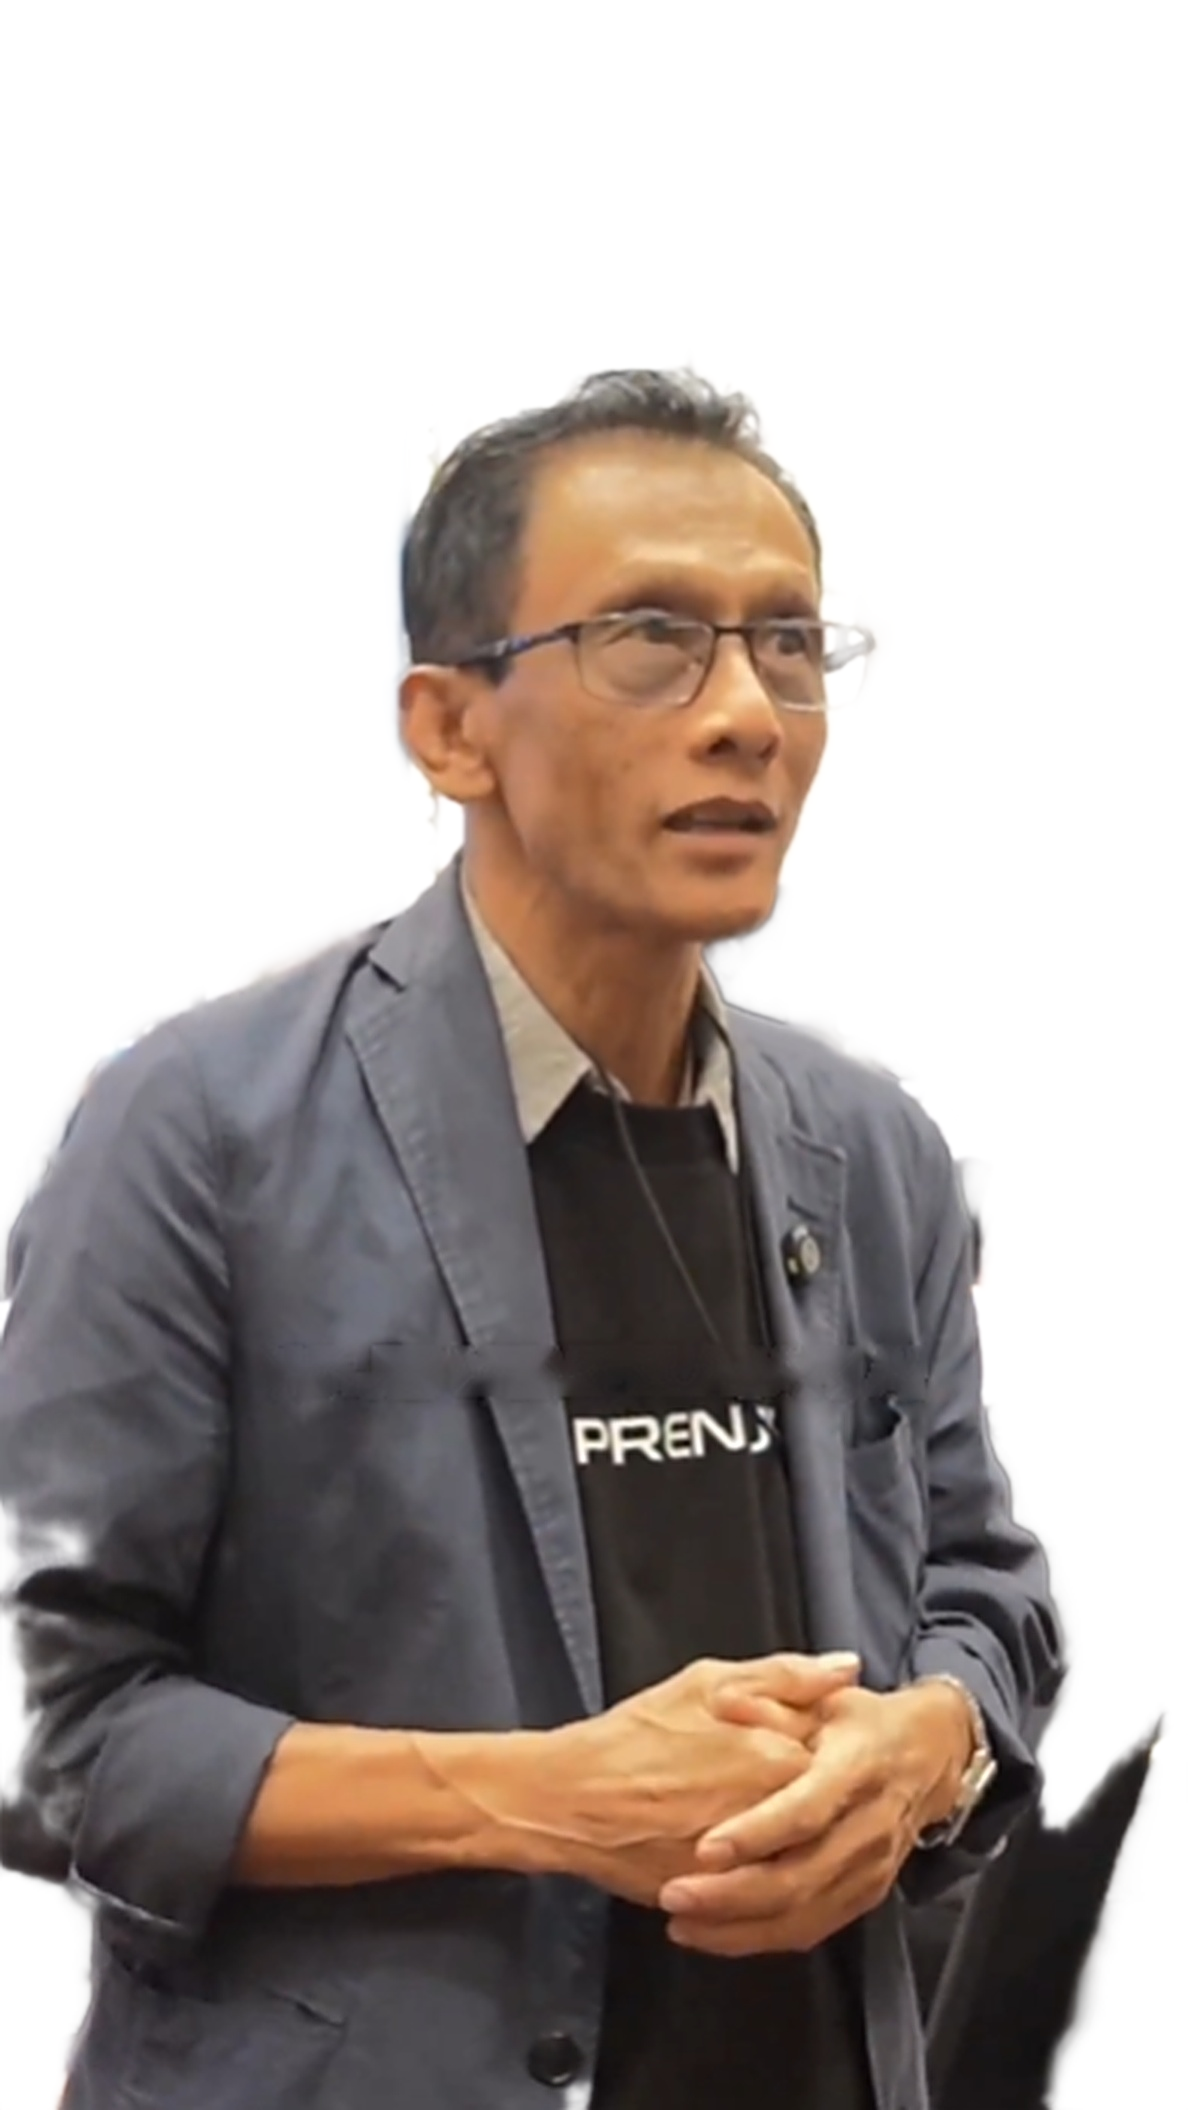
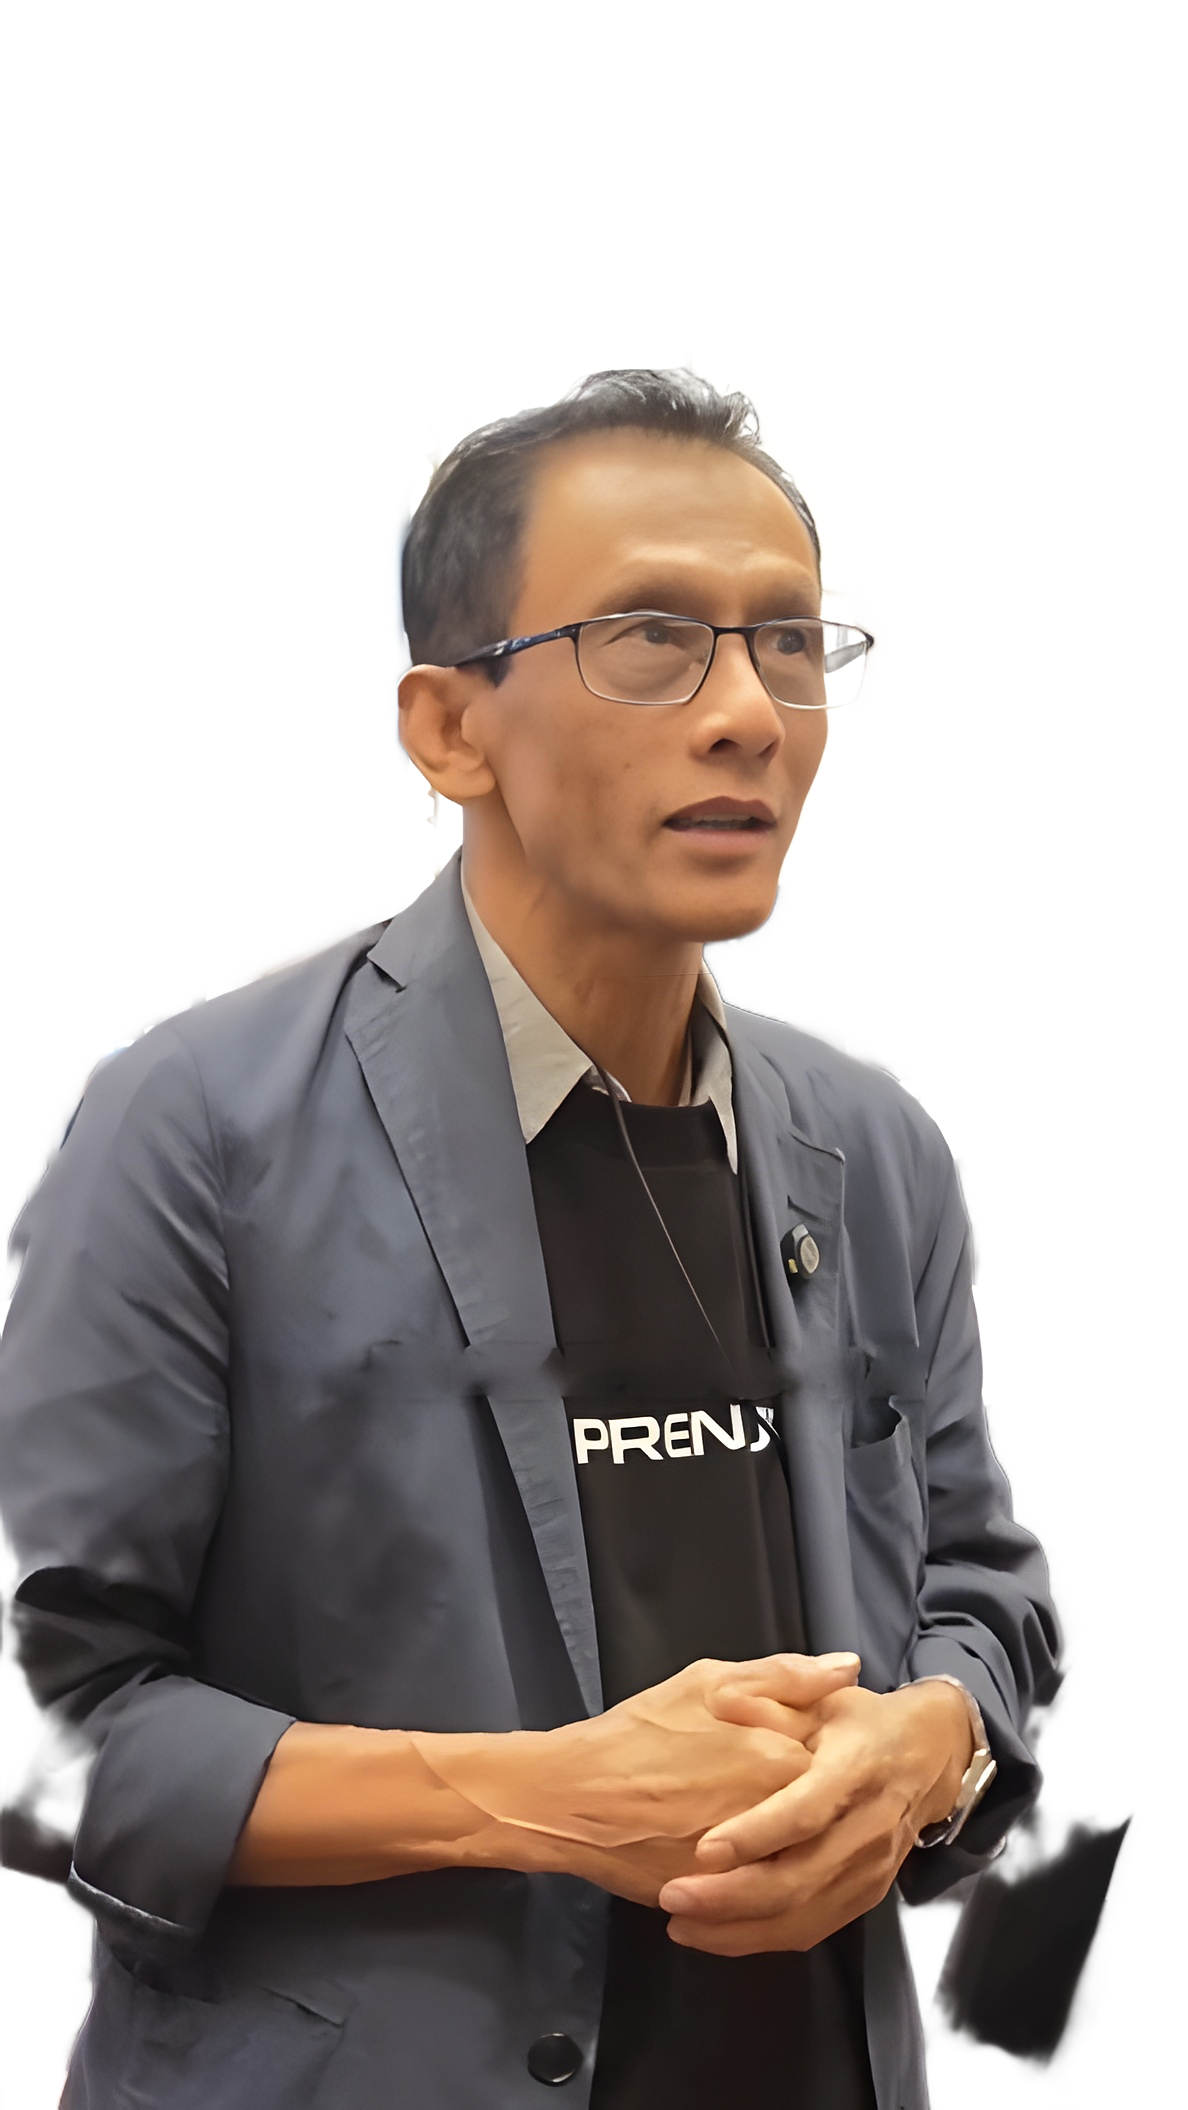
Andreas thumbnail: HD via Real-ESRGAN x4 + GFPGAN face restore (hd.py)
Claude-Session: https://claude.ai/code/session_01FYKeHQysKjzco9uu7WCLcY

diff --git a/thumbnail-name-card/hd.py b/thumbnail-name-card/hd.py
@@ -1,0 +1,47 @@
+# HD pipeline: Real-ESRGAN x4 (tiled) + GFPGAN v1.4 face restore (blended to keep identity).
+# usage: hd.py models_dir in.png out.png [face_weight]
+import onnxruntime as ort, numpy as np, cv2, sys, time
+M, src, out = sys.argv[1:4]; fw = float(sys.argv[4]) if len(sys.argv) > 4 else 0.6
+import os
+cache = out.replace('.png', '_sr.png')
+img = cv2.imread(src)[..., ::-1].astype(np.float32) / 255.0            # RGB 0..1
+H, W, _ = img.shape
+sr = ort.InferenceSession(M + '/realesrgan_x4.onnx', providers=['CPUExecutionProvider'])
+T, O = 64, 12; S = T - 2 * O
+pad = np.pad(img, ((O, O + T), (O, O + T), (0, 0)), mode='reflect')
+up = np.zeros((H * 4, W * 4, 3), np.float32); t0 = time.time()
+for y in (range(0, H, S) if not os.path.exists(cache) else []):
+    for x in range(0, W, S):
+        tile = pad[y:y + T, x:x + T].transpose(2, 0, 1)[None]
+        o = sr.run(None, {'input.1': tile})[0][0].transpose(1, 2, 0)
+        core = o[O * 4:(O + S) * 4, O * 4:(O + S) * 4]
+        hh, ww = min(S, H - y) * 4, min(S, W - x) * 4
+        up[y * 4:y * 4 + hh, x * 4:x * 4 + ww] = core[:hh, :ww]
+up = np.clip(up, 0, 1); print('sr done', up.shape, round(time.time() - t0, 1), 's')
+bgr = cv2.imread(cache) if os.path.exists(cache) else (up[..., ::-1] * 255).round().astype(np.uint8)
+cv2.imwrite(cache, bgr)
+
+# ---- face restore ----
+det = cv2.FaceDetectorYN.create(M + '/yunet.onnx', '', (bgr.shape[1], bgr.shape[0]), 0.7)
+_, faces = det.detect(bgr)
+if faces is not None and len(faces):
+    f = max(faces, key=lambda f: f[2] * f[3]); fx, fy, fw_, fh = [int(v) for v in f[:4]]; eyes = [0, 0]
+    src5 = np.float32(f[4:14]).reshape(5, 2)
+    tmpl = np.float32([[192.98, 239.94], [318.90, 240.19], [256.63, 314.01], [201.26, 371.41], [313.09, 371.15]])
+    A = cv2.estimateAffinePartial2D(src5, tmpl, method=cv2.LMEDS)[0].astype(np.float32)
+    crop = cv2.warpAffine(bgr, A, (512, 512), flags=cv2.INTER_LINEAR, borderMode=cv2.BORDER_REFLECT)
+    x = (crop[..., ::-1].astype(np.float32) / 255 - .5) / .5
+    gf = ort.InferenceSession(M + '/gfpgan14.onnx', providers=['CPUExecutionProvider'])
+    o = gf.run(None, {'input': x.transpose(2, 0, 1)[None]})[0][0].transpose(1, 2, 0)
+    rest = ((np.clip(o, -1, 1) * .5 + .5) * 255)[..., ::-1].astype(np.float32)
+    rest = rest * fw + crop.astype(np.float32) * (1 - fw)            # keep identity
+    Ai = cv2.invertAffineTransform(A)
+    back = cv2.warpAffine(rest, Ai, (bgr.shape[1], bgr.shape[0]), flags=cv2.INTER_LANCZOS4)
+    m = np.zeros((512, 512), np.float32); cv2.ellipse(m, (256, 270), (190, 235), 0, 0, 360, 1, -1)
+    m = cv2.GaussianBlur(m, (0, 0), 28)
+    mb = cv2.warpAffine(m, Ai, (bgr.shape[1], bgr.shape[0]))[..., None]
+    bgr = (back * mb + bgr.astype(np.float32) * (1 - mb)).round().clip(0, 255).astype(np.uint8)
+    cv2.imwrite(out.replace('.png', '_facecrop.png'), np.hstack([crop, rest.astype(np.uint8)]))
+    print('face', (fx, fy, fw_, fh), 'eyes', len(eyes))
+else: print('no face found')
+cv2.imwrite(out, bgr); print('saved', bgr.shape)
